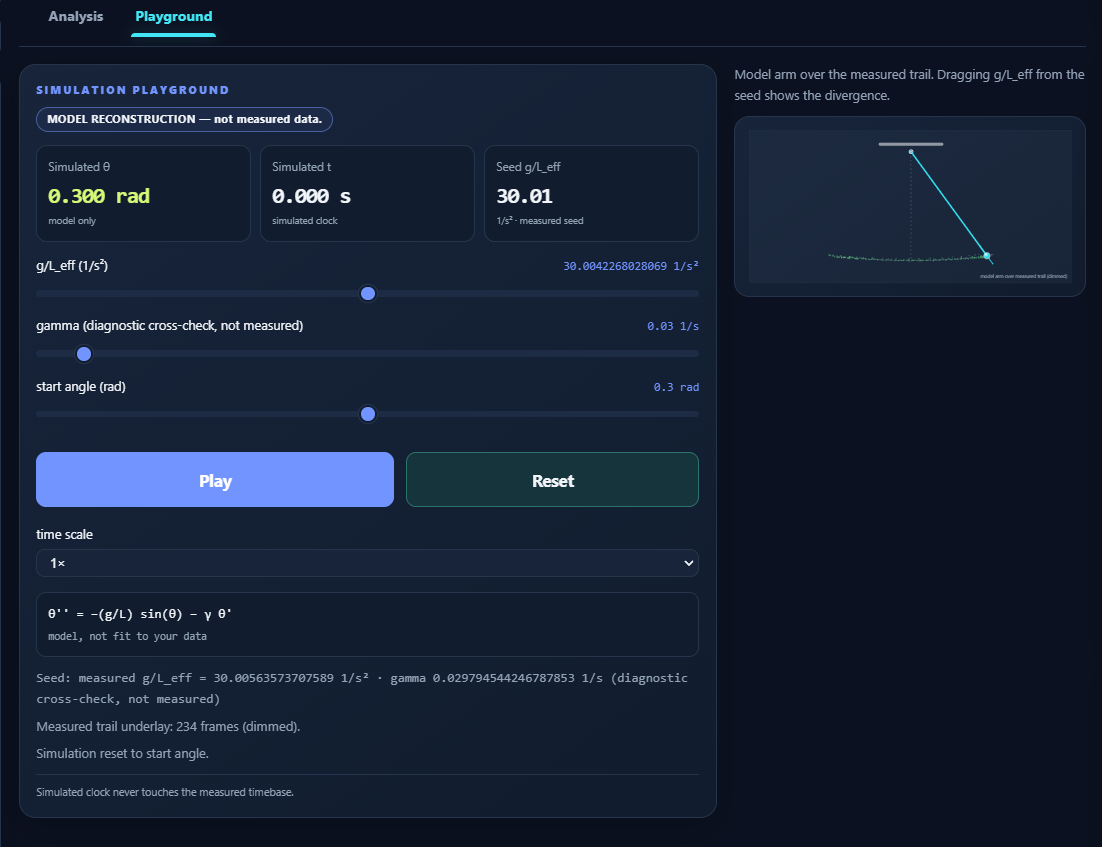
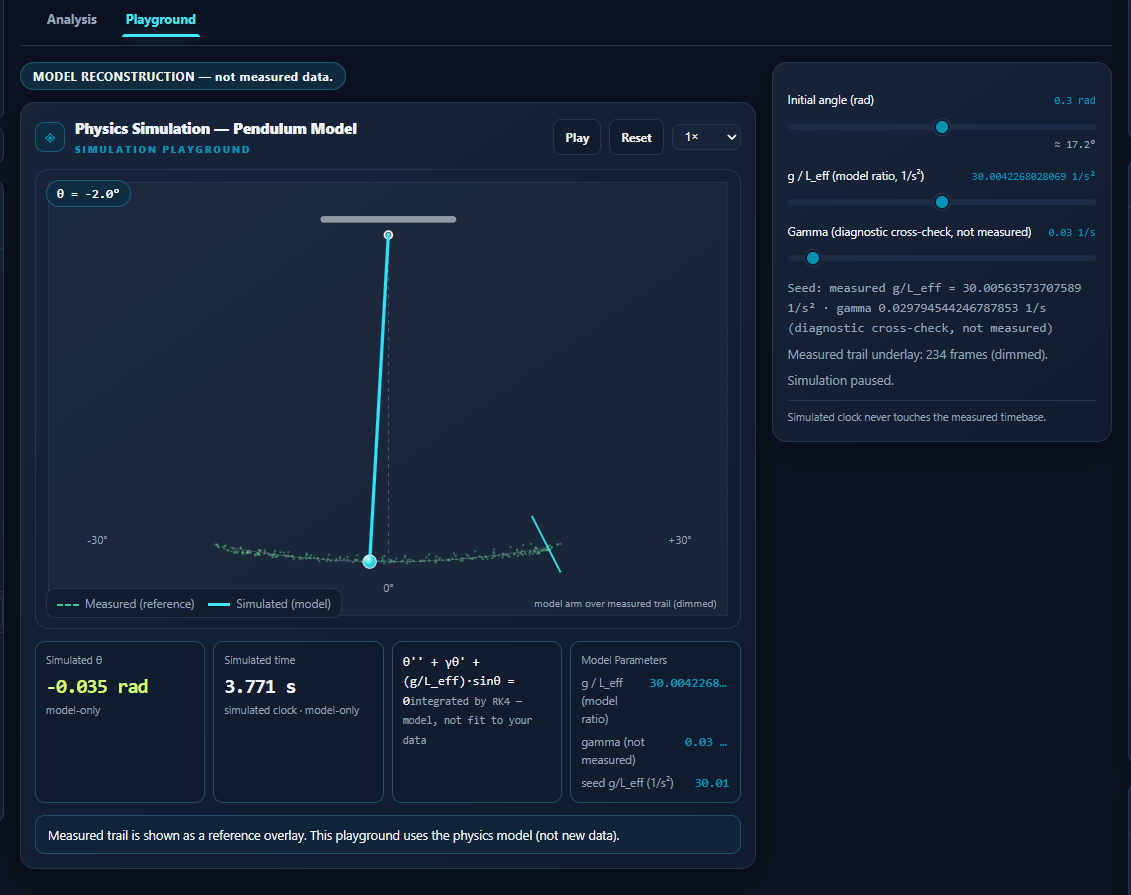
Docs: refresh all README screenshots to the current teal UI
Hero is now the full success page (stepper, analysis deck,
key results, evidence rail, verdict, exports) - it supersedes
the stale result_provenance and advanced_diagnostics crops, which
are removed along with the unreferenced results_data and
analysis_main files. New slots: trajectory chart (the measured
oscillation with its fitted overlay and omega band) and the
rejection run in Why-this-is-different - the refusal verdict in
red was previously never shown in the README. Playground bytes
replaced with the current theme; the three promo covers are
branding art, not UI captures, and stay. Docs-only: no
kineticlab/ or tests/ bytes; drift-lock targeted OK, count
tokens untouched.

diff --git a/README.md b/README.md
@@ -8,7 +8,7 @@
 
 <br>
 
-<img src="Docs/img/dashboard.png" width="860" alt="KineticLab dashboard: Upload / Detect / Confirm / Measure / Results stepper, measured trajectory with fitted overlay, key results (angular frequency, period, g/L_eff), evidence and provenance rail" />
+<img src="Docs/img/dashboard.png" width="860" alt="KineticLab full success run: Upload / Detect / Confirm / Measure / Results stepper complete, Scientific Analysis charts (trajectory with fitted overlay, residuals, centroid trail, synced replay deck), key results (angular frequency, period, g/L_eff), evidence and provenance rail, and the SUCCESS verdict with exact-byte exports" />
 
 *Shown: the built-in demo replay. Every chart is the run's own measured data — rendered from that run's `angles.csv`, never baked, never illustrative.*
 
@@ -64,14 +64,10 @@ Meta AI does the seeing and the explaining. The **measurement itself stays deter
 A successful run ends in a verdict, four exact-byte reports, and a provenance chain — input SHA-256, model name (`sam-3.1`), artifact digests, exports:
 
 <p align="center">
-  <img src="Docs/img/result_provenance.png" width="680" alt="SUCCESS verdict with n=234, exact written bytes for angles.csv, diagnostics.json, result.json, summary.md, and the provenance tab with input SHA-256 and artifact digests" />
+  <img src="Docs/img/trajectory.png" width="680" alt="Trajectory tab: 234 observed samples against the fitted sinusoid and the block-bootstrap omega band, with the legend observed theta(t), fitted theta(t) — observed minus pipeline residual, and T = 1.147 s" />
 </p>
 
-Advanced diagnostics replay the pinned mask overlay frame by frame, state the model's assumptions verbatim — including what the uncertainty interval does and does not cover — and show the advisory narrative, labeled as a template, never a measurement:
-
-<p align="center">
-  <img src="Docs/img/advanced_diagnostics.png" width="680" alt="Advanced diagnostics: pinned mask overlay replay, verbatim assumptions list, and advisory replay narrative" />
-</p>
+The full-page view above shows the rest of the deck: residuals against source-PTS time, the centroid trail, and a replay that reconstructs the arm from the pinned masks with every playhead synced on the source-PTS timebase. Advanced diagnostics replay the pinned mask overlay frame by frame, state the model's assumptions verbatim — including what the uncertainty interval does and does not cover — and show the advisory narrative, labeled as a template, never a measurement.
 
 The simulation playground unlocks only after a measurement seeds it: your measured `g/L_eff` drives a damped-pendulum toy over the measured trail, and the simulated clock never touches the measured timebase:
 
@@ -97,6 +93,11 @@ Every AI demo can show a number. KineticLab is built so it **can't fake one**:
 - **The card's millimeters are always human-typed** (`user_supplied`). The app never estimates mm from pixels.
 - **Locked taxonomy.** Exactly 32 error codes and 9 warning codes in `kineticlab/contracts.py`; nothing new can appear at runtime; the one documented exception is unclassified server faults, which answer `code: null` rather than an invented code.
 - **Rejection is never green.** Unsupported inputs fail loudly, with the same honesty as successes.
+
+<p align="center">
+  <img src="Docs/img/rejection.png" width="680" alt="Rejection run: the audit refuses to certify the input — REJECTED (unsupported_input) in red, the cause stated below, nothing smoothed or guessed; key results render Not available and the four exports are still written for inspection" />
+</p>
+
 - **Provenance on the result and summary exports:** `software_version`, `input_sha256`, `model_name`, artifact hashes of every written file — reproducible and auditable end-to-end; `angles.csv` and `diagnostics.json` are the exact-byte numeric exports.
 
 ## Roadmap
